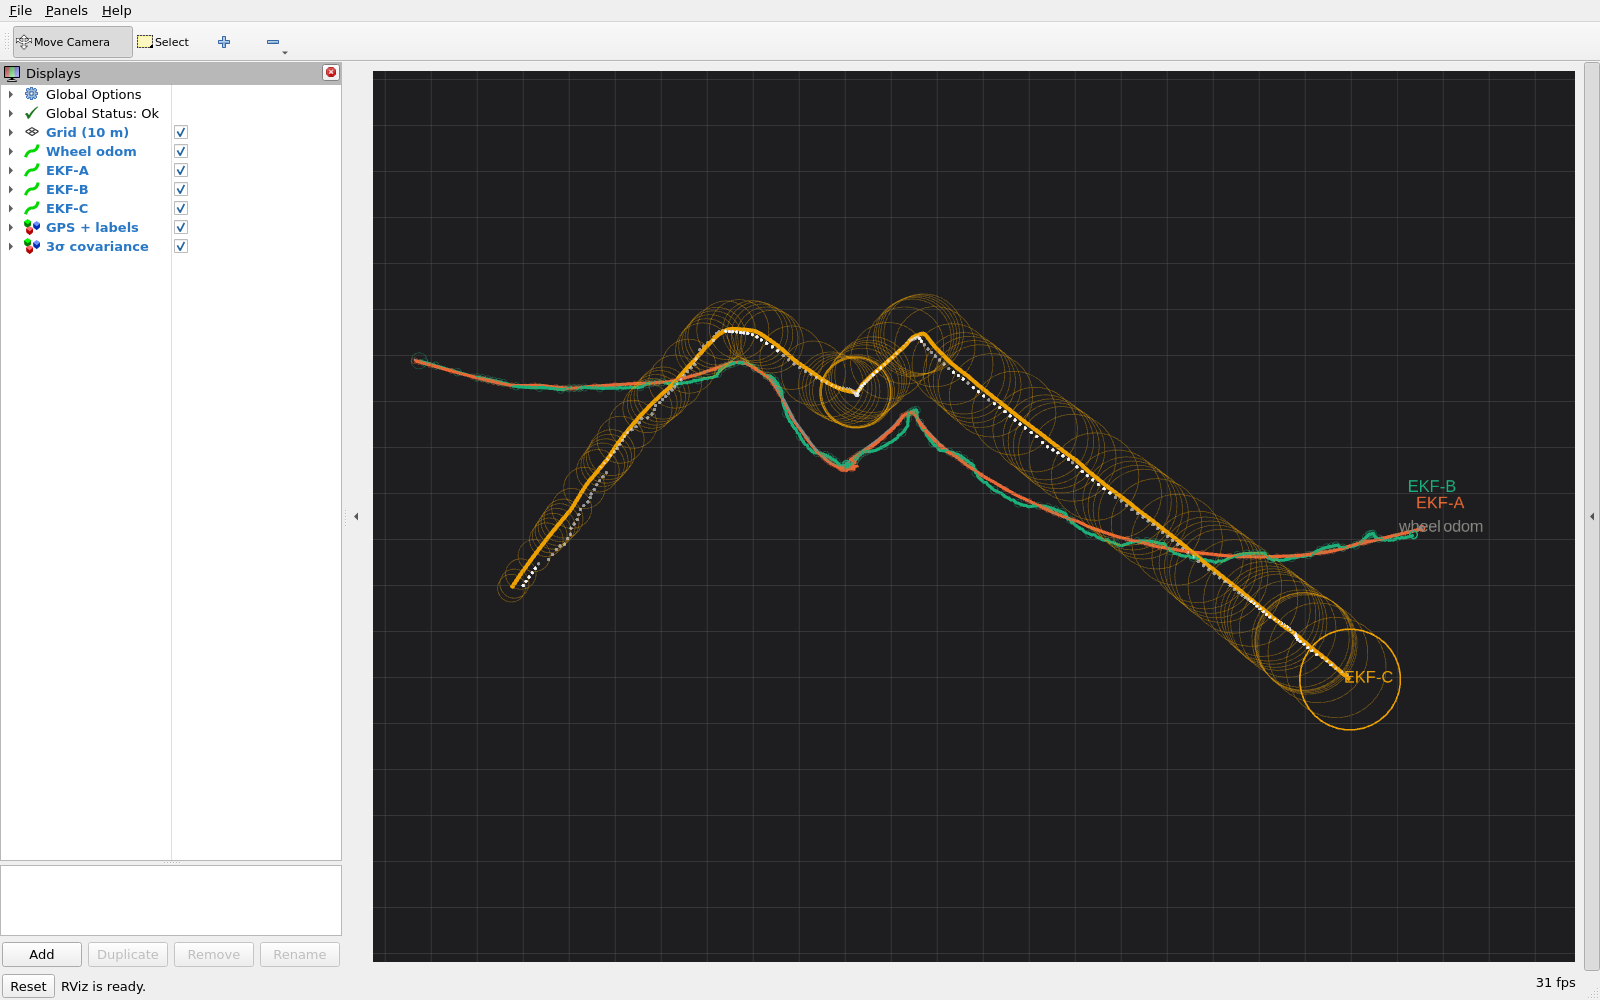
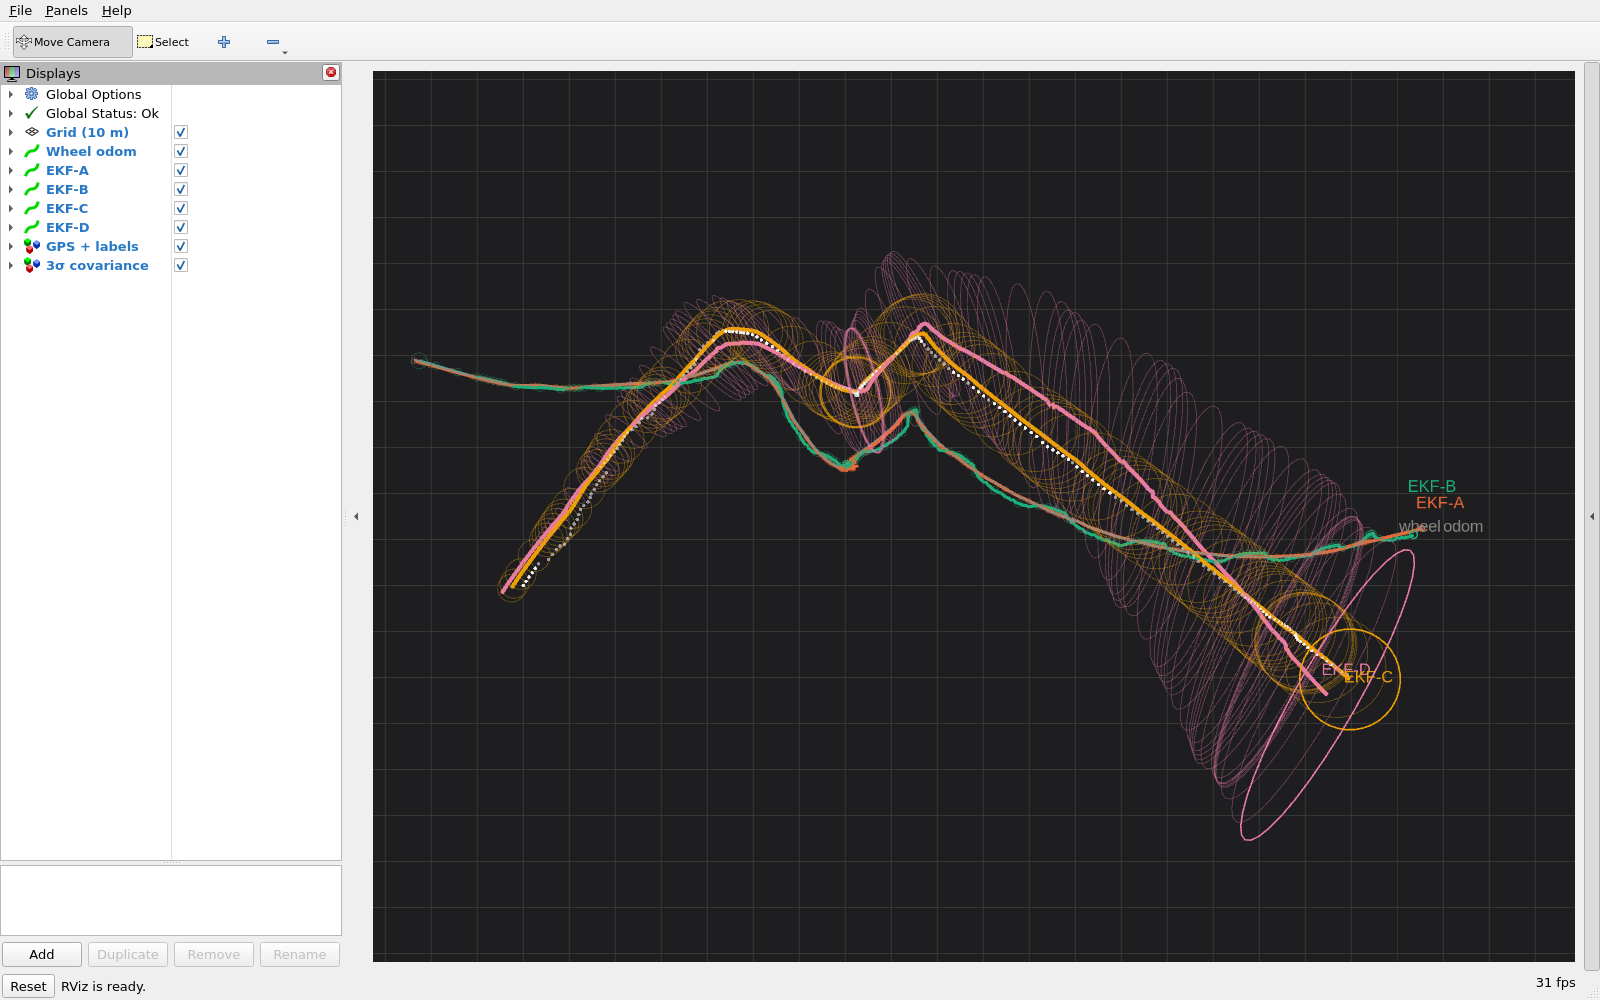
Re-record RViz2 demo with EKF-D and document chi-square thresholds
The GIF and screenshot now show all four variants. The README caption
describes EKF-D, and the consistency section lists the 95% chi-square
regions used for NEES and NIS, per sample and for the mean.

diff --git a/README.md b/README.md
@@ -4,7 +4,7 @@ A ROS2 / C++ Extended Kalman Filter that fuses wheel odometry and IMU data for a
 
 ![EKF variants in RViz2](eval/results/rviz/ekf_variants_rviz.gif)
 
-*RViz2 playback of the Linkou dataset at 4x speed. Filter variants A-C run in parallel and are aligned to GPS (white dots). EKF-C (yellow) follows the GPS track and its 3σ ellipses grow as position is dead-reckoned. EKF-A (orange) and EKF-B (green) drift together with the raw wheel odometry (gray) while reporting less than 1 m of uncertainty.*
+*RViz2 playback of the Linkou dataset at 4x speed. All four filter variants run in parallel and are aligned to GPS (white dots). EKF-C (yellow) follows the GPS track and its 3σ ellipses grow as position is dead-reckoned. EKF-D (pink), which propagates with the IMU and measures only odom velocity, stays close to the track; its ellipses stretch sideways as gyro-only heading uncertainty builds up. EKF-A (orange) and EKF-B (green) drift together with the raw wheel odometry (gray) while reporting less than 1 m of uncertainty.*
 
 ### Highlights
 
@@ -352,6 +352,19 @@ A filter is consistent when its covariance matches its actual error. Two standar
 - **NEES** (normalized estimation error squared) `eᵀ P⁻¹ e`, using ground truth. Position NEES (2 dof) uses GPS. The estimate is aligned with the same SE(2) fit as the ATE, its covariance is rotated with it, and the GPS variance is added to P because the ground truth is itself noisy. Heading NEES (1 dof) uses the `/odom` reference, which has no covariance of its own, so it is an upper bound.
 
 A mean above the 95% χ² bound means the filter is **overconfident** (its covariance is too small). A mean below it means it is **underconfident**.
+
+Thresholds (two-sided 95%, i.e. the 2.5% and 97.5% points of χ²):
+
+| dof | Used for | Per-sample region | Bound on the mean (N samples) |
+|---:|---|---:|---:|
+| 1 | heading NEES | 0.001 – 5.02 | 0.92 – 1.09 (N ≈ 1090) |
+| 2 | position NEES | 0.051 – 7.38 | 1.75 – 2.26 (N ≈ 240 GPS fixes) |
+| 2 | NIS, EKF-D | 0.051 – 7.38 | 1.88 – 2.12 (N = 1089) |
+| 6 | NIS, EKF-C | 1.24 – 14.45 | 5.80 – 6.21 (N = 1088) |
+| 7 | NIS, EKF-A | 1.69 – 16.01 | 6.78 – 7.22 (N = 1088) |
+| 9 | NIS, EKF-B | 2.70 – 19.02 | 8.75 – 9.25 (N = 1088) |
+
+The per-sample region should contain about 95% of the individual values. The bound on the mean is `χ²(N·dof)/N` at the same probabilities, and it decides "over" or "under" in the table below. It assumes independent samples. Consecutive NEES/NIS values are correlated, so the true band is wider, and values just outside it (such as D's heading NEES of 1.15) are borderline rather than clear failures.
 
 | Variant | NIS mean (expected) | Position NEES mean (expected 2) | Heading NEES mean (expected 1) |
 |---|---:|---:|---:|
